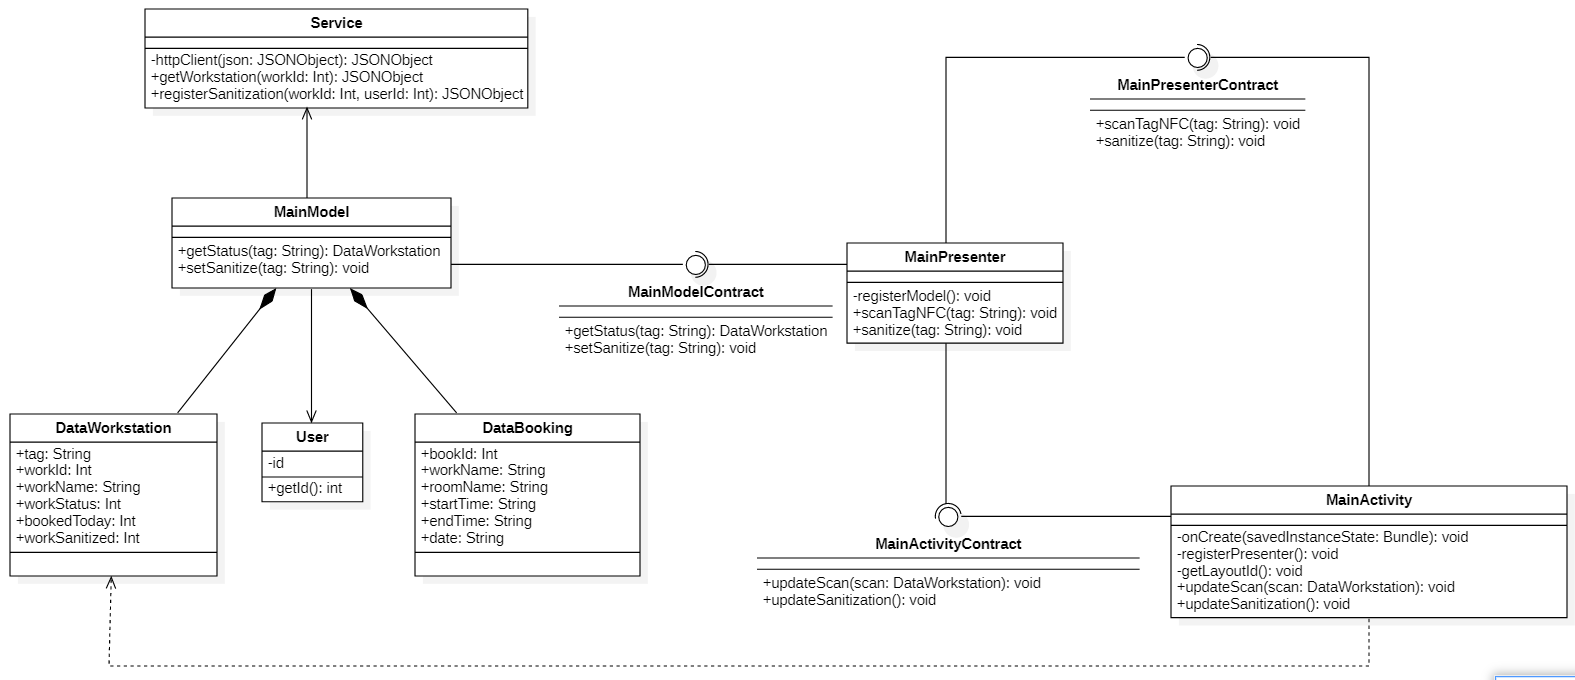
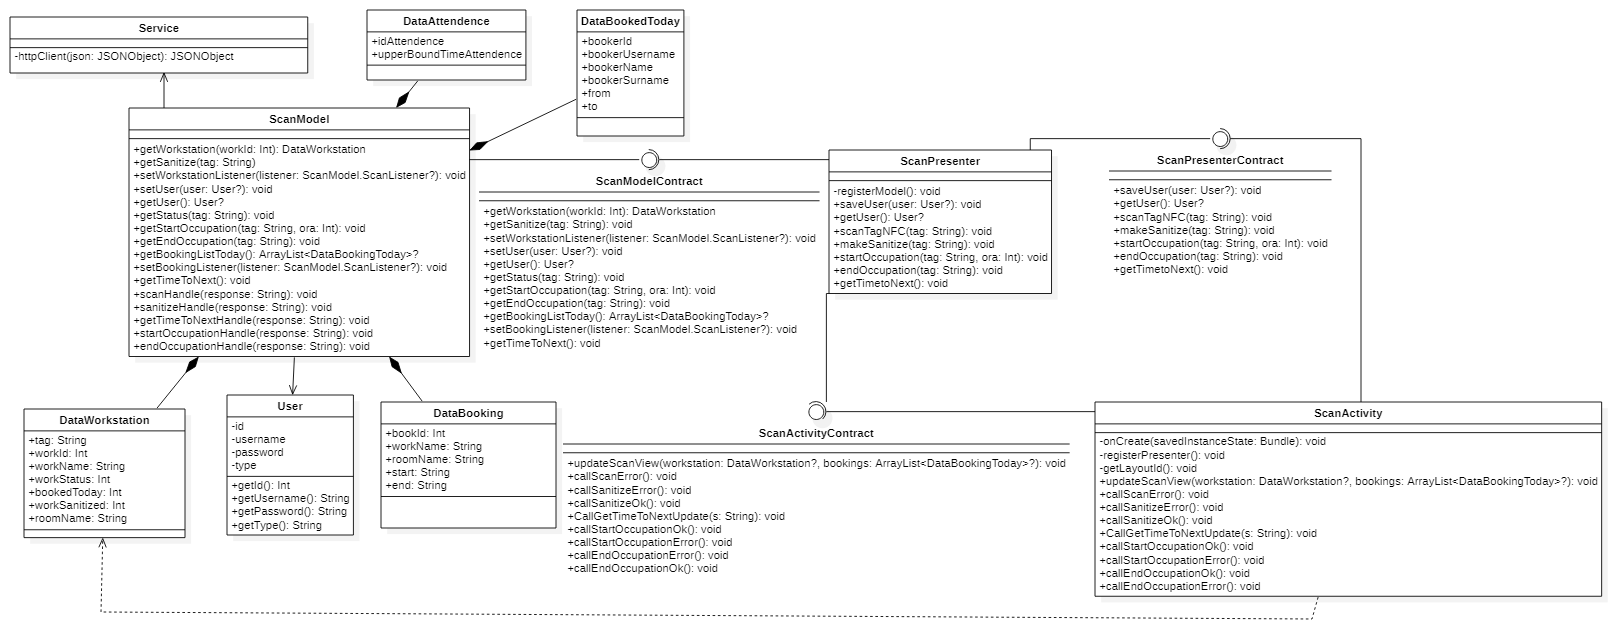
scan class

Changed region(s): [[0.0, 0.0, 0.9956, 0.9828], [0.9333, 0.9828, 1.0, 1.0]]

diff --git a/esterni/ManualeManutentore/res/sections/Apputenti.tex b/esterni/ManualeManutentore/res/sections/Apputenti.tex
@@ -250,24 +250,6 @@ La classe LoginActivity offre i seguenti metodi:
 	\item \textbf{callError(): void}: aggiorna la vista dopo la verifica delle credenziali se risultano errate.
 \end{itemize}
 
-La classe LoginPresenter offre i seguenti metodi:
-\begin{itemize}
-	\item \textbf{makeLogin(username: String, password: String): void}: Si occupa di richiedere al modello di effettuare il login; 
-	\item \textbf{registerModel(): void}: associa il Model al Presenter.
-\end{itemize}
-
-La classe LoginModel offre i seguenti metodi:
-\begin{itemize}
-	\item \textbf{sendLogin(username: String, password: String): void}: Si occupa di richiedere al service di verificare le credenziali fornite dall'utente. 
-	\item \textbf{getUser(): User?}: Si occupa di richiedere allo User le informazioni. 
-	\item \textbf{setLoginListener(listener:LoginListener?): void}: Si occupa di settare il listner per richiamare il Presenter. 
-	\item \textbf{loginHandle(response:String): void}: Si occupa di gestire la risposta fornita dal service. 
-\end{itemize}
-
-La classe Service offre i seguenti metodi:
-\begin{itemize}
-		\item \textbf{httpClient(json:JSONObject): JSONObject}: Viene fatta la richiesta al backend per verificare le credenziali fornite dall'utente.
-\end{itemize}
 
 \subsubsection{Scan}
 \begin{figure}[H]
@@ -276,44 +258,31 @@ La classe Service offre i seguenti metodi:
 	\caption{Main-Diagramma delle classi}
 	\label{fig:Main-Diagramma delle classi}
 \end{figure}
-La classe MainActivity rappresenta la pagina principale dell'applicazione. Al suo interno è possibile eseguire varie operazioni premendo sul menù a tendina in alto a sinistra.
-La funzione principale della classe MainActivity è la scansione dei \glock{tag NFC} che ti permettono di visualizzare i seguenti campi:
+La classe ScanActivity rappresenta la pagina principale dell'applicazione. Al suo interno è possibile eseguire varie operazioni premendo sul menù a tendina in alto a sinistra.
+La funzione principale della classe ScanActivity è la scansione dei \glock{tag NFC} che ti permettono di visualizzare i seguenti campi:
 \begin{itemize}
-	\item workId; 
 	\item workName; 
 	\item workStatus. 
 \end{itemize}
 In caso di prenotazioni, queste verranno mostrate.
 Un'altra funzionalità di questa attività consiste nel premere sul bottone igienizzata una volta igienizzata la postazione così da cambiare stato e poter occupare la postazione se disponibile.
 
-La classe MainActivity offre i seguenti metodi:
+La classe ScanActivity offre i seguenti metodi:
 \begin{itemize}
 	\item \textbf{onCreate(savedInstanceState:Bundle): void}: Si occupa della creazione della parte grafica visualizzata dall'utente; 
 	\item \textbf{registerPresenter(): void}: associa il Presenter alla View; 
 	\item \textbf{getLayoutId(): void}: associa il rispettivo file in formato xml alla View;
-	\item \textbf{updateScan(scan:DataWorkstation): void}: Si occupa di far visualizzare le caratteristiche di una postazione dopo la scansione; 
-	\item \textbf{updateSanitization(): void}: Si occupa di cambiare lo stato della postazione e disabilitare e nascondere il bottone per igienizzare. 
+	\item \textbf{updateScanView(workstation:DataWorkstation?. bookings:ArrayList<DataBookingToday>?): void}: Si occupa di far visualizzare le caratteristiche di una postazione dopo la scansione; 
+	\item \textbf{callScanError(): void}:  Si occupa di mostrare un messaggio di errore nel caso la scansione non vada a buon fine;
+	\item \textbf{callSanitizeError(): void}: Si occupa di mostrare un messaggio di errore nel caso l'igienizzazione non vada a buon fine;
+	\item \textbf{callSanitizeOk(): void}:Si occupa di aggiornare la vista in seguito all'igienizzazione di una postazione;
+	\item \textbf{CallGetTimeToNextUpdate(s:String): void}:Si occupa di aggiornare la vista in base a quante ore l'utente potrà stare al massimo sulla postazione desiderata;
+	\item \textbf{callStartOccupationOk(): void}: Si occupa di aggiornare la vista in seguito all'inizio dell'occupazione;
+	\item \textbf{callStartOccupationError(): void}:Si occupa di mostrare un messaggio di errore nel caso l'inizio dell'occupazione non vada a buon fine;
+	\item \textbf{callEndOccupationOk(): void}:Si occupa di aggiornare la vista in seguito alla fine dell'occupazione;
+	\item \textbf{callEndOccupationError(): void}:Si occupa di mostrare un messaggio di errore nel caso la fine dell'occupazione non vada a buon fine.
 \end{itemize}
 
-La classe MainPresenter offre i seguenti metodi:
-\begin{itemize}
-	\item \textbf{registerModel(): void}: associa il Model al Presenter; 
-	\item \textbf{scanTagNFC(tag: String): void}: Si occupa di richiedere al modello le informazioni riguardanti la postazione, così poi da ritornarle alla vista; 
-	\item \textbf{sanitize(tag: String): void}: Si occupa di richiedere al modello di igienizzare una postazione, così poi da ritornarlo alla vista. 
-\end{itemize}
-
-La classe MainModel offre i seguenti metodi:
-\begin{itemize}
-	\item \textbf{getStatus(tag: String): DataWorkstation}: Si occupa di richiedere al service le caratteristiche di una determinata postazione;
-	\item \textbf{setSanitize(tag: String): void}: Si occupa di richiedere al service di igienizzare una determinata postazione.
-\end{itemize}
-
-La classe Service offre i seguenti metodi:
-\begin{itemize}
-	\item \textbf{registerSanitization(workId:Int, userId:Int): JSONObject}: Si occupa di trasformare in un JSONObject l'id dello user e l'id della postazione così poi da registrare l'igienizzazione;
-	\item \textbf{getWorkstation(workId:Int): JSONObject}: Si occupa di trasformare in un JSONObject l'id della postazione così poi da ottenere le sue caratteristiche;
-	\item \textbf{httpClient(json:JSONObject): JSONObject}: Viene fatta la richiesta al backend per ottenere le caratteristiche della postazione o per registrare l'igienizzazione.	
-\end{itemize}
 
 \subsubsection{Guide}
 \begin{figure}[H]
@@ -323,7 +292,7 @@ La classe Service offre i seguenti metodi:
 	\label{fig:GuideActivity-Diagramma delle classi}
 \end{figure}
 La classe GuideActivity rappresenta la pagina dedicata alla visualizzazione della guida.
-L'utente per visualizzare la guida deve premere sul menu a tendina del menù principale(MainActivity) e successivamente deve premere sulla voce "Guida" e verrà reindirizzato alla pagina dedicata.
+L'utente per visualizzare la guida deve premere sul menu a tendina del menù principale(ScanActivity) e successivamente deve premere sulla voce "Guida" e verrà reindirizzato alla pagina dedicata.
 
 In questa pagina verrà mostrata la guida dedicata all'utente. In base al suo identificativo con cui ha effettuato il login sarà possibile distinguerlo tra le due tipologie, dipendente e addetto alle pulizie, così da mostrare a ciascuno la guida corrispondente.
 
@@ -335,17 +304,6 @@ La classe GuideActivity offre i seguenti metodi:
 	\item \textbf{updateGuideView(in filePath:String): void}: Si occupa di far visualizzare il filePath sotto forma di stringa del percorso in cui viene salvato il documento della guida. 
 \end{itemize}
 
-La classe GuidePresenter offre i seguenti metodi:
-\begin{itemize}
-	\item \textbf{registerModel(): void}: associa il Model al Presenter;
-	\item \textbf{showGuide(): void}: Si occupa di richiedere al modello la guida, così poi da ritornarla alla vista. 
-\end{itemize}
-
-La classe GuideModel offre i seguenti metodi:
-\begin{itemize} 
-	\item \textbf{getGuide(): String}: Si occupa di ottenere il filePath della guida di una determinata tipologia di utente, in base all'identificativo di quest'ultimo. 
-\end{itemize}
-
 \subsubsection{BookingForm}
 \begin{figure}[H]
 	\centering
@@ -354,7 +312,7 @@ La classe GuideModel offre i seguenti metodi:
 	\label{fig:BookingForm-Diagramma delle classi}
 \end{figure}
 La classe BookingFormActivity rappresenta la pagina dedicata alla visualizzazione della ricerca di una postazione.
-L'utente per visualizzare questa pagina deve premere sul menu a tendina del menù principale(MainActivity) e successivamente deve premere sulla voce "Prenota Postazione" e verrà reindirizzato alla pagina dedicata.
+L'utente per visualizzare questa pagina deve premere sul menu a tendina del menù principale(ScanActivity) e successivamente deve premere sulla voce "Prenota Postazione" e verrà reindirizzato alla pagina dedicata.
 
 In questa pagina i campi da compilare sono: 
 \begin{itemize}
@@ -373,25 +331,6 @@ La classe BookingFormActivity offre i seguenti metodi:
 	\item \textbf{updateBookingFormView(): void}: Si occupa di far visualizzare i campi da compilare tramite EditText nella pagina. Inoltre, per il campo data è possibile visualizzare una vista a calendario e per il campo ora una vista a orologio.
 \end{itemize}
 
-La classe BookingFormPresenter offre i seguenti metodi:
-\begin{itemize}
-	\item \textbf{registerModel(): void}: associa il Model al Presenter;
-	\item \textbf{showAvailability(in date:String, in startTime:String, in endTime:String, in room:String, in colleague:String): void}: Si occupa di richiedere al modello la disponibilità delle postazioni con i parametri dei campi inseriti, così poi da ritornarla alla vista. 
-\end{itemize}
-
-La classe BookingFormModel offre i seguenti metodi:
-\begin{itemize}
-	\item \textbf{getAvailability(in date:String, in startTime:String, in endTime:String, in room:String, in colleague:String): void}: Si occupa di richiedere al service la disponibilità delle postazioni con i parametri selezionati dall'utente. 
-\end{itemize}
-
-La classe Service offre i seguenti metodi:
-\begin{itemize}
-	\item \textbf{getUserBookings(idUser:int): JSONObject}: Si occupa di trasformare in un JSONObject l'id dello user;
-	\item \textbf{httpClient(json:JSONObject): JSONObject}: Viene fatta la richiesta al backend per ottenere le postazioni disponibili;
-	\item \textbf{login(in username:String, in password:String): JSONObject}: Si occupa di trasformare in un JSONObject lo username e password dello user;
-	\item \textbf{getAvailability(in date:String, in startTime:String, in endTime:String, in room:String, in colleague:String): JSONObject}: Viene fatta la richiesta al backend per verificare la disponibilità delle postazioni filtrate in base ai parametri.
-\end{itemize}
-
 
 \subsubsection{Bookings}
 \begin{figure}[H]
@@ -400,7 +339,7 @@ La classe Service offre i seguenti metodi:
 	\caption{Bookings-Diagramma delle classi}
 	\label{fig:Bookings-Diagramma delle classi}
 \end{figure}
-La classe BookingActivity rappresenta la pagina dedicata alle prenotazioni effettuate da un utente. L'utente per visualizzare le prenotazioni deve premere sul menù a tendina del menù principale(MainActivity) e successivamente deve premere sulla voce "Visualizza Prenotazioni" e verrà reindirizzato alla pagina dedicata.
+La classe BookingActivity rappresenta la pagina dedicata alle prenotazioni effettuate da un utente. L'utente per visualizzare le prenotazioni deve premere sul menù a tendina del menù principale(ScanActivity) e successivamente deve premere sulla voce "Visualizza Prenotazioni" e verrà reindirizzato alla pagina dedicata.
 
 In questa pagina verranno mostrate in una lista tutte le prenotazioni effettuate dall'utente. Per ogni prenotazione i campi visualizzati sono: 
 \begin{itemize}
@@ -419,24 +358,6 @@ La classe BookingActivity offre i seguenti metodi:
 	\item \textbf{getLayoutId(): void}: associa il rispettivo file in formato xml alla View;
 	\item \textbf{registerPresenter(): void}: associa il Presenter alla View;
 	\item \textbf{updateBookingView(in bookings:List<DataBooking>): void}: Si occupa di far visualizzare le prenotazioni di un utente in una lista se ci sono, altrimenti deve far visualizzare la stringa "Non ci sono prenotazioni effettuate".
-\end{itemize}
-
-La classe BookingPresenter offre i seguenti metodi:
-\begin{itemize}
-	\item \textbf{showBookings(): void}: Si occupa di richiedere al modello la lista delle prenotazioni, così poi da restituirle alla vista; 
-	\item \textbf{registerModel(): void}: associa il Model al Presenter.
-\end{itemize}
-
-La classe BookingModel offre i seguenti metodi:
-\begin{itemize}
-	\item \textbf{getBookingList(): List<DataBooking>}: Si occupa di richiedere al service le prenotazioni di un determinato utente. 
-\end{itemize}
-
-La classe Service offre i seguenti metodi:
-\begin{itemize}
-	\item \textbf{getUserBookings(idUser:int): JSONObject}: Si occupa di trasformare in un JSONObject l'id dello user così poi da ottenere la lista delle sue prenotazioni;
-	\item \textbf{httpClient(json:JSONObject): JSONObject}: Viene fatta la richiesta al backend per ottenere la lista delle prenotazioni.
- 
 \end{itemize}
 
 \subsection{Diagramma di sequenza}
